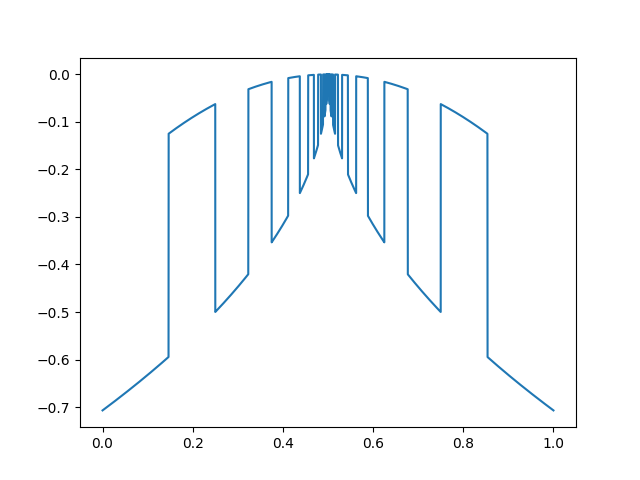
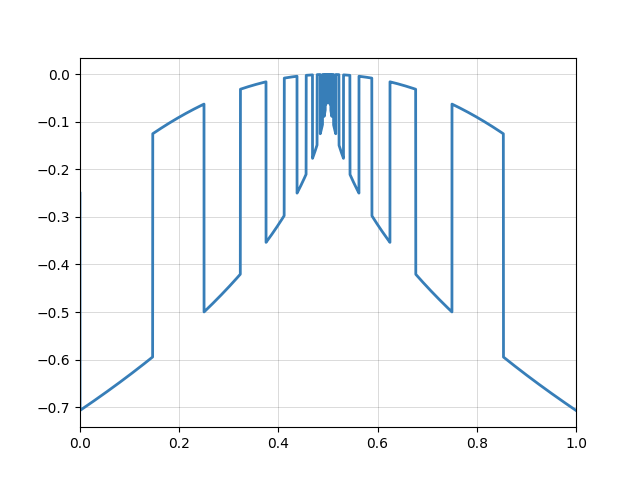
Hyperparameter optimization.

diff --git a/test.py b/test.py
@@ -29,11 +29,11 @@ sys.setrecursionlimit(10000)
 #random.seed(42)
 
 # Macros
-HORIZON = 5000
+HORIZON = 50
 RHOMAX = 20
 SIGMA = 0.1
 DELTA = 0.05
-EPOCH = 50
+EPOCH = 10
 UPDATE = False
 VERBOSE = True
 PARALLEL = True
@@ -57,7 +57,7 @@ bbox1 = utils_oo.std_box(f1.f, f1.fmax, NSPLITS, 1, (0., 1.), SIGMA)
 
 f2 = target.DiffFunc(0.5)
 bbox2 = utils_oo.std_box(f2.f, f2.fmax, NSPLITS, 1, (0., 1.), SIGMA)
-#bbox2.plot1D()
+bbox2.plot1D()
 
 f5 = target.Sine1()
 bbox5 = utils_oo.std_box(f5.f, f5.fmax, NSPLITS, 1, (0., np.pi), SIGMA)
@@ -69,36 +69,11 @@ bbox6 = utils_oo.std_box(f6.f, f6.fmax, NSPLITS, 1, (0.5, 2.5), SIGMA)
 
 f7 = target.Sine2()
 bbox7 = utils_oo.std_box(f7.f, f7.fmax, NSPLITS, 1, (0., 2*np.pi), SIGMA)
+#bbox7.plot1D()
 
-# Simple regret evolutiion with respect to different rhos
-#regrets = np.zeros(RHOMAX)
-#for k in range(EPOCH):
-#    regrets_current = np.array([regret_hoo(bbox2, rho_[i], nu_)[HORIZON-1] for i in range(RHOMAX)])
-#    regrets = np.add(regrets, regrets_current)
-#print("--- %s seconds ---" % (time.time() - start_time))
-#pl.plot(rho_, regrets/float(EPOCH))
-#pl.show()
-
-# Simple regret evolution with respect to number of evaluations
-regrets1 = np.zeros(HORIZON)
-for k in range(EPOCH):
-    regrets_current, _, _ = utils_oo.regret_hoo(bbox6, 0.66, nu_, alpha_, SIGMA, HORIZON, UPDATE)
-    regrets1 = np.add(regrets1, regrets_current)
-#print("--- %s seconds ---" % (time.time() - start_time))
-X = range(HORIZON)
-pl.plot(X, regrets1/float(EPOCH), label=r"$\mathtt{HOO}$", color='red')
-#pl.show()
-
-regrets2 = np.zeros(HORIZON)
-c_ = 2 * math.sqrt(1/(1-0.66))
-c1_ = (0.66/(3*nu_)) ** (1./8)
-for k in range(EPOCH):
-    regrets_current, _, _ = utils_oo.regret_hct(bbox6, 0.66, nu_, c_, c1_, DELTA, SIGMA, HORIZON)
-    regrets2 = np.add(regrets2, regrets_current)
-print("--- %s seconds ---" % (time.time() - start_time))
-#X = range(HORIZON)
-pl.plot(X, regrets2/float(EPOCH), label=r"$\mathtt{HCT}$", color='blue')
-pl.show()
+f8 = target.Garland()
+bbox8 = utils_oo.std_box(f8.f, f8.fmax, NSPLITS, 1, (0., 1.), SIGMA)
+#bbox8.plot1D()
 
 # 2D function test
 f3 = target.Himmelblau()
@@ -109,10 +84,45 @@ f4 = target.Rosenbrock(1, 100)
 bbox4 = utils_oo.std_box(f4.f, f4.fmax, NSPLITS, 2, (-3., 3.), SIGMA)
 #bbox4.plot2D()
 
+c_ = 2 * math.sqrt(1/(1-0.66))
+c1_ = (0.66/(3*nu_)) ** (1./8)
+
+# Simple regret evolutiion with respect to different rhos
+#regrets = np.zeros(RHOMAX)
+#for k in range(EPOCH):
+#    regrets_current = np.array([utils_oo.regret_hct(bbox7, rhos_hoo[i], nu_, c_, c1_, DELTA, SIGMA, HORIZON)[0][HORIZON-1] for i in range(RHOMAX)])
+#    regrets = np.add(regrets, regrets_current)
+#print("--- %s seconds ---" % (time.time() - start_time))
+#pl.plot(rho_, regrets/float(EPOCH))
+#pl.show()
+"""
+# Simple regret evolution with respect to number of evaluations
+regrets1 = np.zeros(HORIZON)
+for k in range(EPOCH):
+    regrets_current, _, _ = utils_oo.regret_hoo(bbox1, 0.66, nu_, alpha_, SIGMA, HORIZON, UPDATE)
+    regrets1 = np.add(regrets1, regrets_current)
+#print("--- %s seconds ---" % (time.time() - start_time))
+X = range(HORIZON)
+pl.plot(X, regrets1/float(EPOCH), label=r"$\mathtt{HOO}$", color='red')
+#pl.show()
+
+regrets2 = np.zeros(HORIZON)
+for k in range(EPOCH):
+    regrets_current, _, _ = utils_oo.regret_hct(bbox1, 0.66, nu_, c_, c1_, DELTA, SIGMA, HORIZON)
+    regrets2 = np.add(regrets2, regrets_current)
+print("--- %s seconds ---" % (time.time() - start_time))
+#X = range(HORIZON)
+pl.plot(X, regrets2/float(EPOCH), label=r"$\mathtt{HCT}$", color='blue')
+
+pl.legend()
+pl.xlabel("number of evaluations")
+pl.ylabel(r"$R_n/n$")
+pl.show()
+"""
 ########################
 # Tests for OO methods #
 ########################
-"""
+
 # Computing regrets
 pool = mp.ProcessingPool(JOBS)
 def partial_regret_hoo(rho):
@@ -167,7 +177,7 @@ if SAVE and VERBOSE:
         pickle.dump(data_poo, file)
 
 utils_oo.show(PATH, EPOCH, HORIZON, rhos_hoo, rhos_poo, DELTA)
-"""
+
 ########################
 # Tests for BO methods #
 ########################

diff --git a/utils_oo.py b/utils_oo.py
@@ -145,11 +145,11 @@ def show(path, epoch, horizon, rhos_hoo, rhos_poo, delta):
     pl.plot(X, np.array(means_poo), label=r"$\mathtt{POO}$")
     pl.plot(X, np.array(means_ucb_direct), label=r"$\mathtt{GPUCB-DIRECT}$", color='blue')
     pl.plot(X, np.array(means_ucb_lbfgs), label=r"$\mathtt{GPUCB-LBFGS}$", color='green')
-    #pl.plot(X, np.array(means_ei), label=r"$\mathtt{EI}$", color='black')
-    #pl.plot(X, np.array(means_pi), label=r"$\mathtt{PI}$", color='black')
-    pl.plot(X, np.array(means_thomp), label=r"$\mathtt{THOMPSON}$", color='black')
+    #pl.plot(X, np.array(means_ei), label=r"$\mathtt{EI}$", color='cyan')
+    #pl.plot(X, np.array(means_pi), label=r"$\mathtt{PI}$", color='magenta')
+    pl.plot(X, np.array(means_thomp), label=r"$\mathtt{THOMPSON}$", color='magenta')
     pl.legend()
-    pl.xlabel("numbe of evaluations")
+    pl.xlabel("number of evaluations")
     pl.ylabel("simple regret")
     pl.show()
 
@@ -161,9 +161,9 @@ def show(path, epoch, horizon, rhos_hoo, rhos_poo, delta):
     pl.plot(X, np.array(map(math.log, means_poo[1:])), label=r"$\mathtt{POO}$")
     pl.plot(X, np.array(map(math.log, means_ucb_direct[1:])), label=r"$\mathtt{GPUCB-DIRECT}$", color='blue')
     pl.plot(X, np.array(map(math.log, means_ucb_lbfgs[1:])), label=r"$\mathtt{GPUCB-LBFGS}$", color='green')
-    #pl.plot(X, np.array(map(math.log, means_ei[1:])), label=r"$\mathtt{EI}$", color='black')
-    #pl.plot(X, np.array(map(math.log, means_pi[1:])), label=r"$\mathtt{PI}$", color='black')
-    pl.plot(X, np.array(map(math.log, means_thomp[1:])), label=r"$\mathtt{THOMPSON}$", color='black')
+    #pl.plot(X, np.array(map(math.log, means_ei[1:])), label=r"$\mathtt{EI}$", color='cyan')
+    #pl.plot(X, np.array(map(math.log, means_pi[1:])), label=r"$\mathtt{PI}$", color='magenta')
+    pl.plot(X, np.array(map(math.log, means_thomp[1:])), label=r"$\mathtt{THOMPSON}$", color='magenta')
     pl.legend(loc=3)
     pl.xlabel("number of evaluations (log-scale)")
     pl.ylabel("simple regret")

diff --git a/main.py b/main.py
@@ -37,15 +37,15 @@ RHOMAX = 20
 DELTA = 0.05
 JOBS = 8
 
-#SIDE = (.5, 2.5)
-SIDE = (0., 2*np.pi)
+SIDE = (0., 1.)
+#SIDE = (0., 2*np.pi)
 DIM = 1
 SIGMA = 0.01
-HORIZON = 5
-EPOCH = 10
+HORIZON = 100
+EPOCH = 5
 
 VERBOSE = True
-PLOT = True
+PLOT = False
 SAVE = True
 PARALLEL = True
 PATH = "data/"
@@ -56,7 +56,7 @@ rhos_hoo = [float(j)/float(RHOMAX-1) for j in range(RHOMAX)]
 nu_ = 1.
 
 #target = target.Gramacy1()
-target = target.Sine2()
+target = target.DiffFunc(0.5)
 #target = target.Himmelblau()
 bbox = utils_oo.std_box(target.f, target.fmax, NSPLITS, DIM, SIDE, SIGMA)
 
@@ -64,7 +64,7 @@ bbox = utils_oo.std_box(target.f, target.fmax, NSPLITS, DIM, SIDE, SIGMA)
 
 def f(x):
     x = np.array([x])
-    return target.f(x)[0]
+    return target.f(x)
 
 def f2(x):
     a, b = x
@@ -107,6 +107,8 @@ def main():
     #infos_ei, mu_ei, s2_ei, xbest_ei, model_ei, info_ei = get_info(x, f, bounds, 'ei', 'direct', 'incumbent', HORIZON, False, EPOCH)
 
     #data_ei = utils_bo.regret_bo(bbox, infos_ei, HORIZON, EPOCH)
+
+    #infos_pi, mu_pi, s2_pi, xbest_pi, model_pi, info_pi = get_info(x, f, bounds, 'pi', 'direct', 'incumbent', HORIZON, False, EPOCH)
 
     #data_pi = utils_bo.regret_bo(bbox, infos_pi, HORIZON, EPOCH)
 
@@ -175,8 +177,9 @@ def main():
         with open("data/THOMP", 'wb') as file:
             pickle.dump(data_thomp, file)
 
-    if PLOT:
-        utils_oo.show(PATH, EPOCH, HORIZON, rhos_hoo, rhos_poo, DELTA)
+    #rhos_poo = utils_oo.get_rhos(NSPLITS, 0.9, HORIZON)
+
+    utils_oo.show(PATH, EPOCH, HORIZON, rhos_hoo, rhos_poo, DELTA)
 
     if PLOT:
         fig = figure()
@@ -197,7 +200,7 @@ def main():
         fig.canvas.draw()
 
     show()
-    bbox.plot1D()
+    #bbox.plot1D()
 
 if __name__ == '__main__':
     main()

diff --git a/target.py b/target.py
@@ -80,6 +80,16 @@ class DiffFunc:
     def fmax(self):
         return self.fmax
 
+class Garland:
+    def __init__(self):
+        self.fmax = 0.997772313413222
+
+    def f(self, x):
+        return 4*x[0]*(1-x[0])*(0.75+0.25*(1-np.sqrt(np.abs(np.sin(60*x[0])))))
+
+    def fmax(self):
+        return self.fmax
+
 class Himmelblau:
     def __init__(self):
         self.fmax = 0.

diff --git a/poo.py b/poo.py
@@ -8,6 +8,7 @@ import numpy as np
 import math
 
 import hoo
+import hct
 
 class PTree:
     def __init__(self, support, father, depth, rhos, nu, box):
